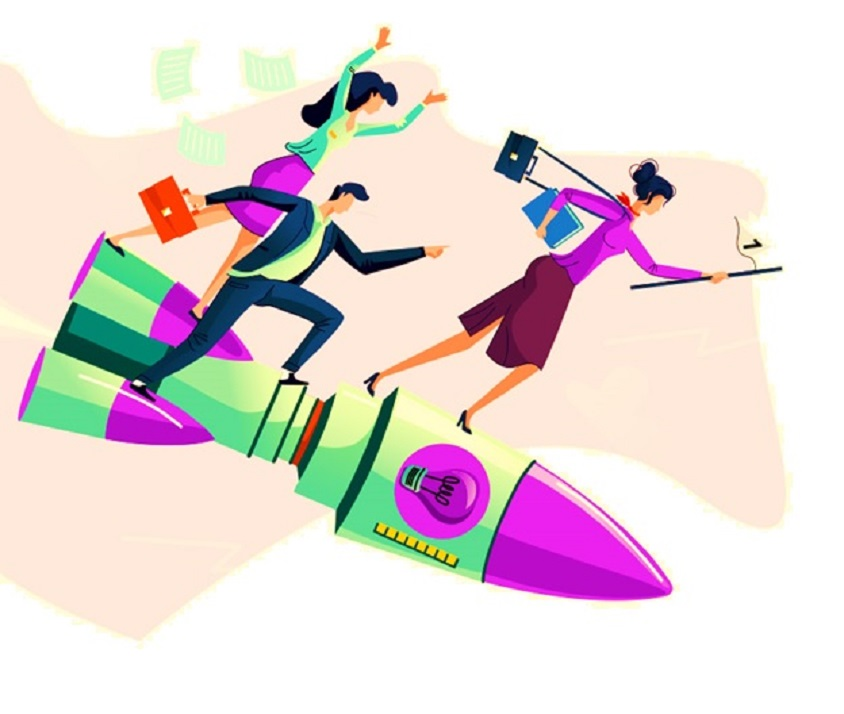
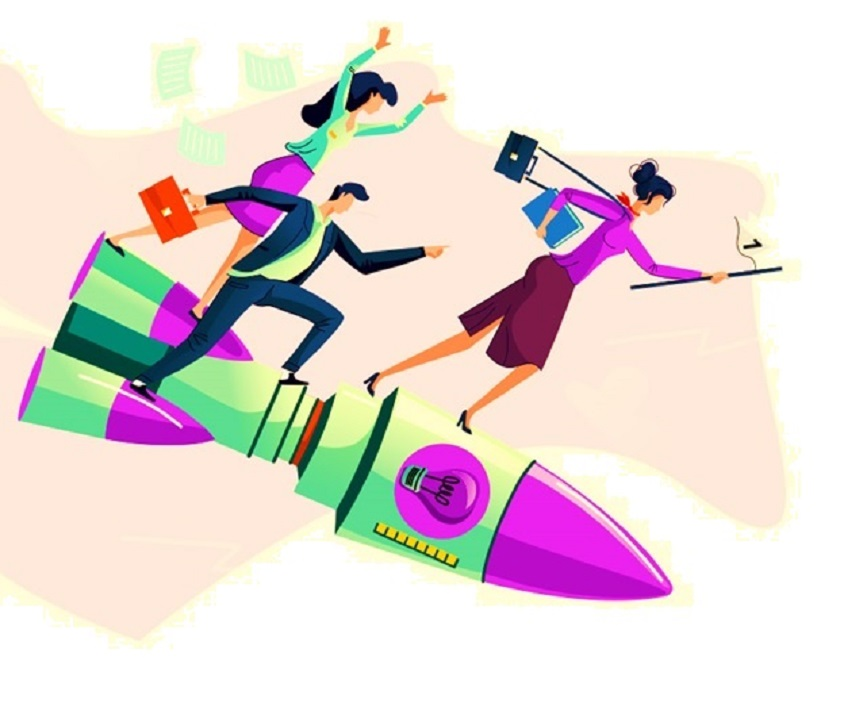
first commit

diff --git a/services.html b/services.html
@@ -51,7 +51,7 @@
 
 .services::before {
   content: url(../assets/images/services-left1.jpg);
-  top: 120px;
+  top: 100px;
   left: 0;
   position: absolute;
   width: 844px;
